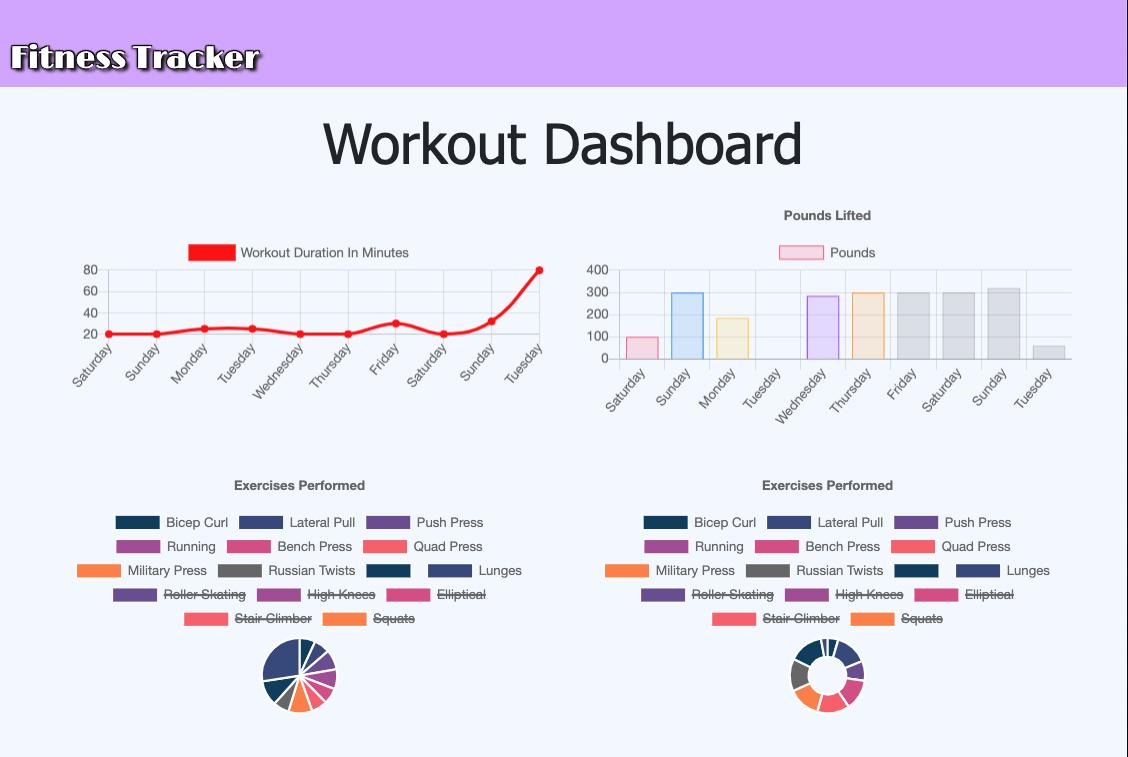
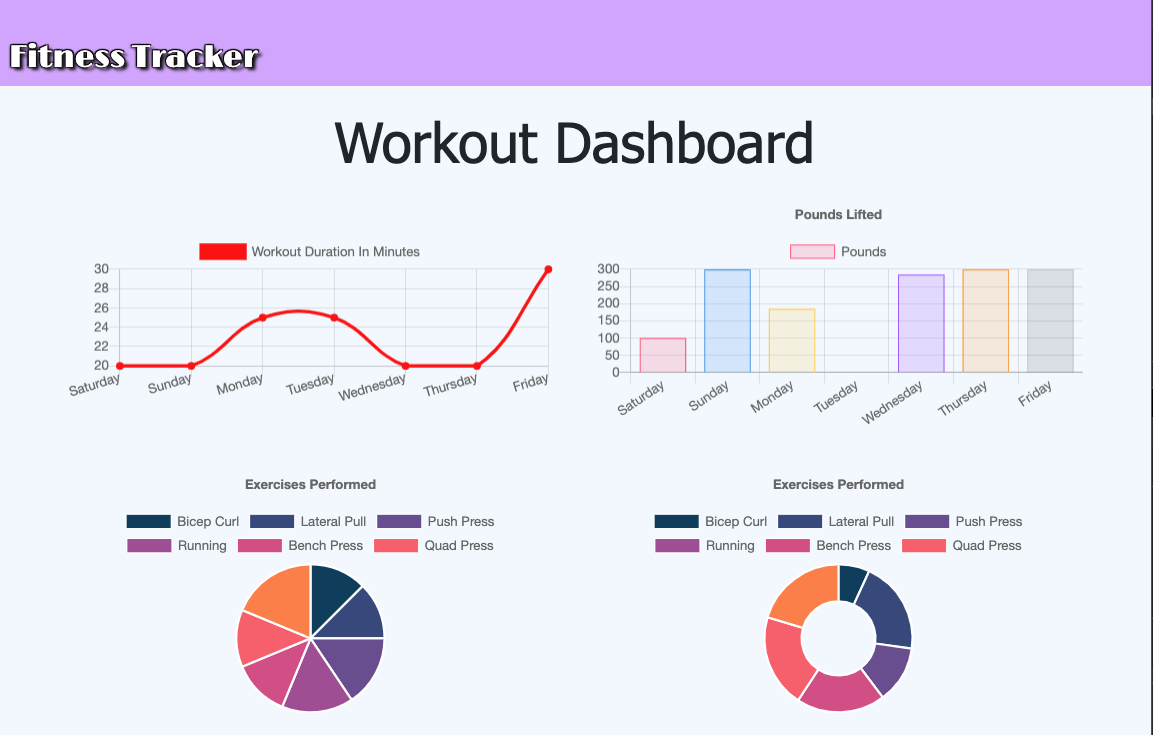
update api-routes.js now limits to 7 days and sort in order

diff --git a/routes/api-routes.js b/routes/api-routes.js
@@ -23,7 +23,6 @@ router.get("/api/workouts", (req, res) => {
 router.put("/api/workouts/:id", (req, res) => {
   db.Workout.findOneAndUpdate(
     { _id: req.params.id },
-    // { $inc: { totalDuration: req.params.totalDuration } },
     { $push: { exercises: req.body } },
     { new: true }
   )
@@ -52,13 +51,15 @@ router.post("/api/workouts", ({ body }, res) => {
 // GET workouts in range to show stats
 router.get("/api/workouts/range", (req, res) => {
   // db.Workout.find({})
+  
   db.Workout.aggregate([
     {
       $addFields: {
         totalDuration: { $sum: "$exercises.duration" },
       },
     },
-  ])
+  ]).sort( { "_id": 1, "day": 1 } )
+    .limit(7)
     .then((dbWorkout) => {
       console.log(dbWorkout);
       res.json(dbWorkout);
